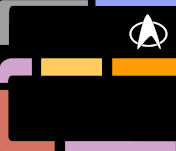
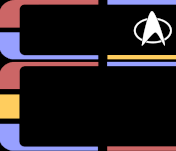
More lcars style

diff --git a/apps/lcars/lcars.app.js b/apps/lcars/lcars.app.js
@@ -8,7 +8,7 @@ var hrmValue = "-";
 var backgroundImage = {
   width : 176, height : 151, bpp : 3,
   transparent : 2,
[2 lines of base64/hex data omitted]
 }
 
 var iconPlanet = {
@@ -72,7 +72,7 @@ function draw(queue){
   }
 
   for(var y=0; y<6; y++){
-    g.drawLine(113, 105+y*10, 180, 105+y*10);
+    g.drawLine(113, 105+y*10, 175, 105+y*10);
   }
 
   // Draw symbol
@@ -96,7 +96,7 @@ function draw(queue){
   var timeStr = locale.time(currentDate,1);
   g.setFontAlign(0,0,0);
   g.setFontAntonioLarge();
-  g.drawString(timeStr, 50, 57);
+  g.drawString(timeStr, 60, 55);
 
   // Write date
   g.setFontAlign(-1,-1, 0);
@@ -104,24 +104,24 @@ function draw(queue){
 
   var dayName = locale.dow(currentDate, true).toUpperCase();
   var day = currentDate.getDate();
-  g.drawString(day, 93, 37);
-  g.drawString(dayName, 93, 57);
+  g.drawString(day, 100, 35);
+  g.drawString(dayName, 100, 55);
 
-  // Temperature
+  // HRM
   g.setFontAlign(-1,-1,0);
-  g.drawString("HRM:", 20, 104);
-  g.drawString(hrmValue, 55, 104);
+  g.drawString("HRM:", 30, 102);
+  g.drawString(hrmValue, 65, 102);
 
   // Draw steps
   var steps = getSteps();
-  g.drawString("STEP:", 20, 124);
-  g.drawString(steps, 55, 124);
+  g.drawString("STEP:", 30, 122);
+  g.drawString(steps, 65, 122);
 
   // Draw battery
   var bat = E.getBattery();
   var charging = Bangle.isCharging() ? "*" : "";
-  g.drawString("BAT:", 20, 144);
-  g.drawString(charging + bat+ "%", 55, 144);
+  g.drawString("BAT:", 30, 142);
+  g.drawString(charging + bat+ "%", 65, 142);
 
   // Queue draw in one minute
   if(queue){
